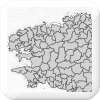
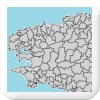
basemaps + data

Changed region(s): [[0.06, 0.06, 0.93, 0.93]]

diff --git a/sources/js/extensions/maperialjs/hud/panel-basemaps.js b/sources/js/extensions/maperialjs/hud/panel-basemaps.js
@@ -30,10 +30,10 @@ HUD.prototype.buildBasemapsPanel = function(params, callBack) {
       case HUD.ALL_BASEMAPS:
          html += "" +
          	"<div class='row-fluid marginbottom'>" +
-         	"   <div class='span3' title='Classic' onclick='HUD.selectedBasemap"+this.maperial.tagId+"(Source.MaperialOSM, Source.MAPERIAL_CLASSIC)'>" +
+         	"   <div class='span3 basemap' title='Classic' onclick='HUD.selectedBasemap"+this.maperial.tagId+"(Source.MaperialOSM, Source.MAPERIAL_CLASSIC)'>" +
          	"      <img src='http://static.maperial.localhost/images/buttons/sources/button.maperial.classic.png' class='bigbutton'></img>" +
          	"   </div>" +
-         	"   <div class='span3' title='SRTM' onclick='HUD.selectedBasemap"+this.maperial.tagId+"(Source.SRTM)'>" +
+         	"   <div class='span3 basemap' title='SRTM' onclick='HUD.selectedBasemap"+this.maperial.tagId+"(Source.SRTM)'>" +
          	"      <img src='http://static.maperial.localhost/images/buttons/sources/button.srtm.png' class='bigbutton'></img>" +
          	"   </div>" +
          	"</div>" 
@@ -41,42 +41,42 @@ HUD.prototype.buildBasemapsPanel = function(params, callBack) {
       case HUD.IMAGE_BASEMAPS:
          html += ""+
             "<div class='row-fluid marginbottom'>" +
-            "   <div class='span3' title='Mapquest' onclick='HUD.selectedBasemap"+this.maperial.tagId+"(Source.Images, Source.IMAGES_MAPQUEST)'>" +
+            "   <div class='span3 basemap' title='Mapquest' onclick='HUD.selectedBasemap"+this.maperial.tagId+"(Source.Images, Source.IMAGES_MAPQUEST)'>" +
             "     <img src='http://static.maperial.localhost/images/buttons/sources/button.images.mapquest.png' class='bigbutton'></img>" +
             "   </div>" +
-            "   <div class='span3' title='Satellite' onclick='HUD.selectedBasemap"+this.maperial.tagId+"(Source.Images, Source.IMAGES_MAPQUEST_SATELLITE)'>" +
+            "   <div class='span3 basemap' title='Satellite' onclick='HUD.selectedBasemap"+this.maperial.tagId+"(Source.Images, Source.IMAGES_MAPQUEST_SATELLITE)'>" +
             "      <img src='http://static.maperial.localhost/images/buttons/sources/button.images.mapquest.satellite.png' class='bigbutton'></img>" +
             "   </div>" +
-            "   <div class='span3' title='OSM' onclick='HUD.selectedBasemap"+this.maperial.tagId+"(Source.Images, Source.IMAGES_OSM)'>" +
+            "   <div class='span3 basemap' title='OSM' onclick='HUD.selectedBasemap"+this.maperial.tagId+"(Source.Images, Source.IMAGES_OSM)'>" +
             "      <img src='http://static.maperial.localhost/images/buttons/sources/button.images.osm.png' class='bigbutton'></img>" +
             "   </div>" +
-            "   <div class='span3' title='OpenCycleMap' onclick='HUD.selectedBasemap"+this.maperial.tagId+"(Source.Images, Source.IMAGES_OCM_CYCLE)'>" +
+            "   <div class='span3 basemap' title='OpenCycleMap' onclick='HUD.selectedBasemap"+this.maperial.tagId+"(Source.Images, Source.IMAGES_OCM_CYCLE)'>" +
             "      <img src='http://static.maperial.localhost/images/buttons/sources/button.images.ocm.cycle.png' class='bigbutton'></img>" +
             "   </div>" +
             "</div>"
             
          html += ""+
             "<div class='row-fluid marginbottom'>" +
-            "   <div class='span3' title='Watercolor' onclick='HUD.selectedBasemap"+this.maperial.tagId+"(Source.Images, Source.IMAGES_STAMEN_WATERCOLOR)'>" +
+            "   <div class='span3 basemap' title='Watercolor' onclick='HUD.selectedBasemap"+this.maperial.tagId+"(Source.Images, Source.IMAGES_STAMEN_WATERCOLOR)'>" +
             "      <img src='http://static.maperial.localhost/images/buttons/sources/button.images.stamen.watercolor.png' class='bigbutton'></img>" +
             "   </div>" +
-            "   <div class='span3' title='Terrain' onclick='HUD.selectedBasemap"+this.maperial.tagId+"(Source.Images, Source.IMAGES_STAMEN_TERRAIN)'>" +
+            "   <div class='span3 basemap' title='Terrain' onclick='HUD.selectedBasemap"+this.maperial.tagId+"(Source.Images, Source.IMAGES_STAMEN_TERRAIN)'>" +
             "      <img src='http://static.maperial.localhost/images/buttons/sources/button.images.stamen.terrain.png' class='bigbutton'></img>" +
             "   </div>" +
-            "   <div class='span3' title='Toner' onclick='HUD.selectedBasemap"+this.maperial.tagId+"(Source.Images, Source.IMAGES_STAMEN_TONER)'>" +
+            "   <div class='span3 basemap' title='Toner' onclick='HUD.selectedBasemap"+this.maperial.tagId+"(Source.Images, Source.IMAGES_STAMEN_TONER)'>" +
             "      <img src='http://static.maperial.localhost/images/buttons/sources/button.images.stamen.toner.png' class='bigbutton'></img>" +
             "   </div>" +
-            "   <div class='span3' title='Toner BG' onclick='HUD.selectedBasemap"+this.maperial.tagId+"(Source.Images, Source.IMAGES_STAMEN_TONER_BG)'>" +
+            "   <div class='span3 basemap' title='Toner BG' onclick='HUD.selectedBasemap"+this.maperial.tagId+"(Source.Images, Source.IMAGES_STAMEN_TONER_BG)'>" +
             "      <img src='http://static.maperial.localhost/images/buttons/sources/button.images.stamen.toner-background.png' class='bigbutton'></img>" +
             "   </div>" +
             "</div>"
             
          html += ""+
             "<div class='row-fluid marginbottom'>" +
-            "  <div class='span3' title='Transport' onclick='HUD.selectedBasemap"+this.maperial.tagId+"(Source.Images, Source.IMAGES_OCM_TRANSPORT)'>" +
+            "  <div class='span3 basemap' title='Transport' onclick='HUD.selectedBasemap"+this.maperial.tagId+"(Source.Images, Source.IMAGES_OCM_TRANSPORT)'>" +
             "     <img src='http://static.maperial.localhost/images/buttons/sources/button.images.ocm.transport.png' class='bigbutton'></img>" +
             "   </div>" +
-            "   <div class='span3' title='Landscape' onclick='HUD.selectedBasemap"+this.maperial.tagId+"(Source.Images, Source.IMAGES_OCM_LANDSCAPE)'>" +
+            "   <div class='span3 basemap' title='Landscape' onclick='HUD.selectedBasemap"+this.maperial.tagId+"(Source.Images, Source.IMAGES_OCM_LANDSCAPE)'>" +
             "      <img src='http://static.maperial.localhost/images/buttons/sources/button.images.ocm.landscape.png' class='bigbutton'></img>" +
             "   </div>" +
             "</div>"
@@ -85,4 +85,6 @@ HUD.prototype.buildBasemapsPanel = function(params, callBack) {
    //-----------------------------------------------------//
    
    this.element(HUD.BASEMAPS).append(html)
+   
+   $(".basemap").tooltip()
 }

diff --git a/sources/js/extensions/maperialjs/managers/sources-manager.js b/sources/js/extensions/maperialjs/managers/sources-manager.js
@@ -50,13 +50,8 @@ SourcesManager.prototype.buildSources = function(layers){
 
          case Source.Images:
          case Source.WMS:
-            
-            if(layers[i].source.params.src == Source.IMAGES_STAMEN_TERRAIN){
-               // US - only
-               this.maperial.forceCenter(40.68, -74.12, 7)
-            }
-               
-            params = {src : layers[i].source.params.src };
+            params = {src : layers[i].source.params.src }
+            this.placeMap(layers[i].source.params.src)
             break;
       }
 
@@ -65,6 +60,29 @@ SourcesManager.prototype.buildSources = function(layers){
    }
 
 }
+
+//----------------------------------------------------------------------------------------------------------------------//
+
+SourcesManager.prototype.placeMap = function (src) {
+
+   switch(src){
+      // US - only
+      case Source.IMAGES_STAMEN_TERRAIN : 
+         this.maperial.forceCenter(40.68, -74.12, 7)
+         break;
+         
+      // Bretagne
+      case Source.WMS_BRETAGNECANTONS : 
+         this.maperial.forceCenter(48.27, -2.87, 9)
+         break;
+
+      // Rennes
+      case Source.WMS_SOLS_ILEETVILAINE : 
+         this.maperial.forceCenter(48.11, -1.78, 10)
+         break;
+   }
+}
+
 //----------------------------------------------------------------------------------------------------------------------//
 
 SourcesManager.prototype.releaseEverything = function () {
@@ -396,8 +414,12 @@ SourcesManager.prototype.getImageURL = function (source, tx, ty, z) {
 //-------------------------------------------//
 
 /**
- * Source.WMS_BRETAGNECANTONS | geo1 : "http://geobretagne.fr/geoserver/ows?SERVICE=WMS&LAYERS=d22%3AASS_LIN_22&FORMAT=image%2Fpng&&VERSION=1.1.1&REQUEST=GetMap&SRS=EPSG%3A900913&BBOX="+topLeft.x+","+topLeft.y+","+bottomRight.x+","+bottomRight.y+"&WIDTH="+Maperial.tileSize+"&HEIGHT="+Maperial.tileSize
- * Source.WMS_FRANCECOURSDEAU | geo2 : "http://geowww.agrocampus-ouest.fr/geoserver/ows?SERVICE=WMS&LAYERS=france%3Arh_france_1000ha&ISBASELAYER=false&TRANSPARENT=true&FORMAT=image%2Fpng&&VERSION=1.1.1&REQUEST=GetMap&STYLES=&EXCEPTIONS=application%2Fvnd.ogc.se_inimage&SRS=EPSG%3A900913&BBOX="+topLeft.x+","+topLeft.y+","+bottomRight.x+","+bottomRight.y+"&WIDTH="+Maperial.tileSize+"&HEIGHT="+Maperial.tileSize
+ * Source.WMS_BRETAGNECANTONS 
+ *    geo1 : "http://geobretagne.fr/geoserver/ows?SERVICE=WMS&LAYERS=d22%3AASS_LIN_22&FORMAT=image%2Fpng&&VERSION=1.1.1&REQUEST=GetMap&SRS=EPSG%3A900913&BBOX="+topLeft.x+","+topLeft.y+","+bottomRight.x+","+bottomRight.y+"&WIDTH="+Maperial.tileSize+"&HEIGHT="+Maperial.tileSize
+ * 
+ * Source.WMS_FRANCECOURSDEAU 
+ * Source.WMS_SOLS_ILEETVILAINE 
+ *    geo2 : "http://geowww.agrocampus-ouest.fr/geoserver/ows?SERVICE=WMS&LAYERS=france%3Arh_france_1000ha&ISBASELAYER=false&TRANSPARENT=true&FORMAT=image%2Fpng&&VERSION=1.1.1&REQUEST=GetMap&STYLES=&EXCEPTIONS=application%2Fvnd.ogc.se_inimage&SRS=EPSG%3A900913&BBOX="+topLeft.x+","+topLeft.y+","+bottomRight.x+","+bottomRight.y+"&WIDTH="+Maperial.tileSize+"&HEIGHT="+Maperial.tileSize
  */ 
 SourcesManager.prototype.getWMSURL = function (source, tx, ty, z) {
 
@@ -425,6 +447,15 @@ SourcesManager.prototype.getWMSURL = function (source, tx, ty, z) {
          var bottomRight   = bottomRightM;
 
          return("http://api.maperial.com/geo2?SERVICE=WMS&LAYERS=france%3Arh_france_1000ha&ISBASELAYER=false&TRANSPARENT=true&FORMAT=image%2Fpng&&VERSION=1.1.1&REQUEST=GetMap&STYLES=&EXCEPTIONS=application%2Fvnd.ogc.se_inimage&SRS=EPSG%3A900913&BBOX="+topLeft.x+","+topLeft.y+","+bottomRight.x+","+bottomRight.y+"&WIDTH="+Maperial.tileSize+"&HEIGHT="+Maperial.tileSize)
+         break;
+
+      case Source.WMS_SOLS_ILEETVILAINE:
+         //http://www.mapmatters.org/wms/647148
+         
+         var topLeft       = topLeftM;
+         var bottomRight   = bottomRightM;
+         
+         return("http://api.maperial.com/geo2?SERVICE=WMS&LAYERS=igcs%3Aucs35&ISBASELAYER=false&TRANSPARENT=true&FORMAT=image%2Fpng&&VERSION=1.1.1&REQUEST=GetMap&STYLES=&EXCEPTIONS=application%2Fvnd.ogc.se_inimage&SRS=EPSG%3A900913&BBOX="+topLeft.x+","+topLeft.y+","+bottomRight.x+","+bottomRight.y+"&WIDTH="+Maperial.tileSize+"&HEIGHT="+Maperial.tileSize)
          break;
 
       case Source.WMS_3:

diff --git a/sources/js/extensions/maperialjs/managers/layers-manager.js b/sources/js/extensions/maperialjs/managers/layers-manager.js
@@ -266,12 +266,15 @@ LayersManager.prototype.changeComposition = function(l, shader) {
       switch(shader){
          
          case Maperial.AlphaClip : 
+            composition.params = LayersManager.defaultAlphaClipParams
+            break;
+
          case Maperial.AlphaBlend : 
-               composition.params = { uParams : 1.0 }
+               composition.params = LayersManager.defaultAlphaBlendParams
             break;
             
          case Maperial.MulBlend : 
-               composition.params = { uParams : [ 0.0, 0.0, 1.0 ]}
+               composition.params = LayersManager.defaultMulBlendParams
             break;
       }
    }
@@ -300,7 +303,7 @@ LayersManager.getOSMLayerConfig = function(styleUIDs) {
       },
       composition: {
          shader : Maperial.MulBlend,
-         params : { uParams : [ 0.0, 0.0, 1.0 ]}
+         params : LayersManager.defaultMulBlendParams
       }
    }
 }
@@ -323,7 +326,7 @@ LayersManager.getRasterLayerConfig = function(rasterUID, colorbarUIDs) {
       },
       composition: {
          shader : Maperial.MulBlend,
-         params : { uParams : [ 0.0, 0.0, 1 ]}
+         params : LayersManager.defaultMulBlendParams
       }
    }
 }
@@ -342,7 +345,7 @@ LayersManager.getShadeLayerConfig = function() {
       },
       composition: {
          shader : Maperial.MulBlend,
-         params : { uParams : [ 0.0, 0.0, 1 ]}
+         params : LayersManager.defaultMulBlendParams
       }
    }
 }
@@ -360,7 +363,7 @@ LayersManager.getVectorLayerConfig = function() {
       },
       composition: {
          shader : Maperial.AlphaBlend,
-         params : { uParams : 0.5 }
+         params : LayersManager.defaultAlphaBlendParams
       }
    }
 }
@@ -374,9 +377,6 @@ LayersManager.getVectorLayerConfig = function() {
  */
 LayersManager.getImagesLayerConfig = function(sourceType, src) {
    
-   console.log(sourceType)
-   console.log(src)
-   
    return { 
       type: LayersManager.Images, 
       source: {
@@ -388,9 +388,37 @@ LayersManager.getImagesLayerConfig = function(sourceType, src) {
       },
       composition: {
          shader : Maperial.AlphaBlend,
-         params : { uParams : 0.5 }
+         params : LayersManager.defaultAlphaBlendParams
       }
    }
 }
 
 //-------------------------------------------//
+
+LayersManager.getDefaultParams = function(shader) {
+   switch(shader){
+      case Maperial.AlphaClip : 
+         return LayersManager.defaultAlphaClipParams
+
+      case Maperial.AlphaBlend : 
+         return LayersManager.defaultAlphaBlendParams
+         
+      case Maperial.MulBlend : 
+         return LayersManager.defaultMulBlendParams
+   }
+}
+
+//-------------------------------------------//
+      
+LayersManager.defaultMulBlendParams = {
+   uParams : [ 0.0, 0.0, 1 ]
+}
+
+
+LayersManager.defaultAlphaBlendParams = {
+   uParams : 0.5
+}
+
+LayersManager.defaultAlphaClipParams = {
+   uParams : 0.5
+}

diff --git a/sources/js/extensions/maperialjs/hud/panel-data.js b/sources/js/extensions/maperialjs/hud/panel-data.js
@@ -32,11 +32,14 @@ HUD.prototype.buildDataPanel = function(params, callBack) {
       case HUD.WMS_DATA:
          html += "" +
             "<div class='row-fluid marginbottom'>" +
-            "   <div class='span3' title='Cantons de Bretagne' onclick='HUD.selectedData"+this.maperial.tagId+"(Source.WMS, Source.WMS_BRETAGNECANTONS)'>" +
+            "   <div id='wms1' class='span3' title='Cantons de Bretagne' onclick='HUD.selectedData"+this.maperial.tagId+"(Source.WMS, Source.WMS_BRETAGNECANTONS)'>" +
             "     <img src='http://static.maperial.localhost/images/buttons/sources/button.wms.bretagnecantons.png' class='bigbutton'></img>" +
             "   </div>" +
-            "   <div class='span3' title='Cantons de Bretagne' onclick='HUD.selectedData"+this.maperial.tagId+"(Source.WMS, Source.WMS_FRANCECOURSDEAU)'>" +
+            "   <div id='wms2' class='span3' title='Cours d eau en France' onclick='HUD.selectedData"+this.maperial.tagId+"(Source.WMS, Source.WMS_FRANCECOURSDEAU)'>" +
             "     <img src='http://static.maperial.localhost/images/buttons/sources/button.wms.francecoursdeau.png' class='bigbutton'></img>" +
+            "   </div>" +
+            "   <div id='wms3' class='span3' title='Ille et Vilaine : Unités Cartographiques de Sol' onclick='HUD.selectedData"+this.maperial.tagId+"(Source.WMS, Source.WMS_SOLS_ILEETVILAINE)'>" +
+            "     <img src='http://static.maperial.localhost/images/buttons/sources/button.wms.sols_ileetvilaine.png' class='bigbutton'></img>" +
             "   </div>" +
             "</div>"
             
@@ -45,4 +48,7 @@ HUD.prototype.buildDataPanel = function(params, callBack) {
    //-----------------------------------------------------//
    
    this.element(HUD.DATA).append(html)
+   $("#wms1").tooltip()
+   $("#wms2").tooltip()
+   $("#wms3").tooltip()
 }

diff --git a/sources/js/extensions/maperialjs/hud/panel-composition.js b/sources/js/extensions/maperialjs/hud/panel-composition.js
@@ -34,6 +34,12 @@ HUD.prototype.refreshCompositionsPanel = function() {
       var shadersSelectionId = "shadersSelection_"+l;
 
       //-----------------------------------------------------//
+      
+      if(!composition.params){
+         composition.params = LayersManager.getDefaultParams(composition.shader)
+      }
+      
+      //-----------------------------------------------------//
       // layer header html
 
       var div = "<div class=\"row-fluid marginbottom\">";

diff --git a/sources/js/extensions/maperialjs/source.js b/sources/js/extensions/maperialjs/source.js
@@ -58,7 +58,7 @@ Source.IMAGES_STAMEN_TONER_BG       = "images.stamen.toner-background";
 
 Source.WMS_BRETAGNECANTONS          = "wms.bretagnecantons";
 Source.WMS_FRANCECOURSDEAU          = "wms.francecoursdeau";
-Source.WMS3                         = "wms.3";
+Source.WMS_SOLS_ILEETVILAINE        = "wms.sols_ileetvilaine";
 Source.WMS4                         = "wms.4";
 
 //-----------------------------------------------------------------------------------//
